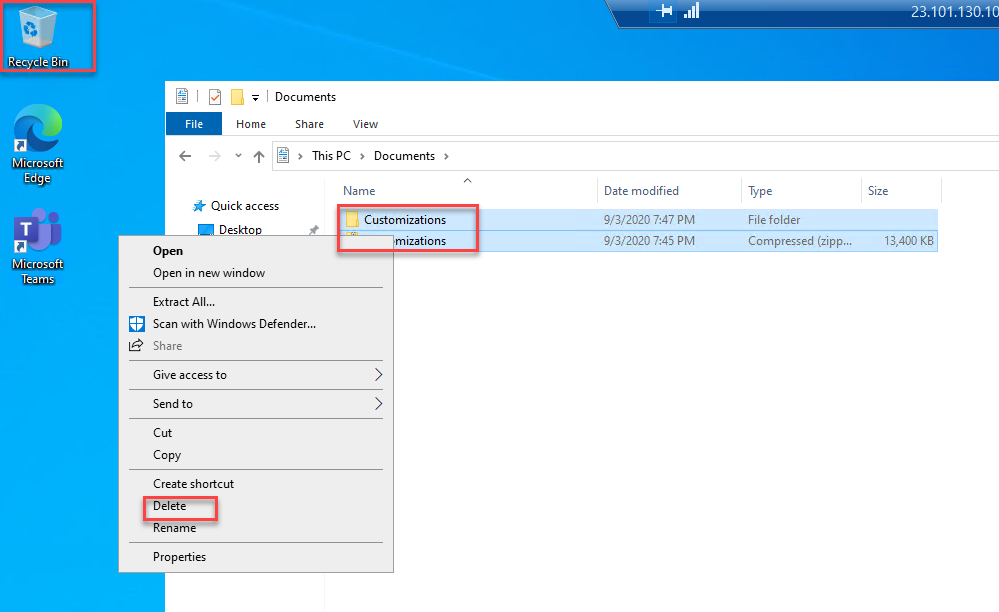
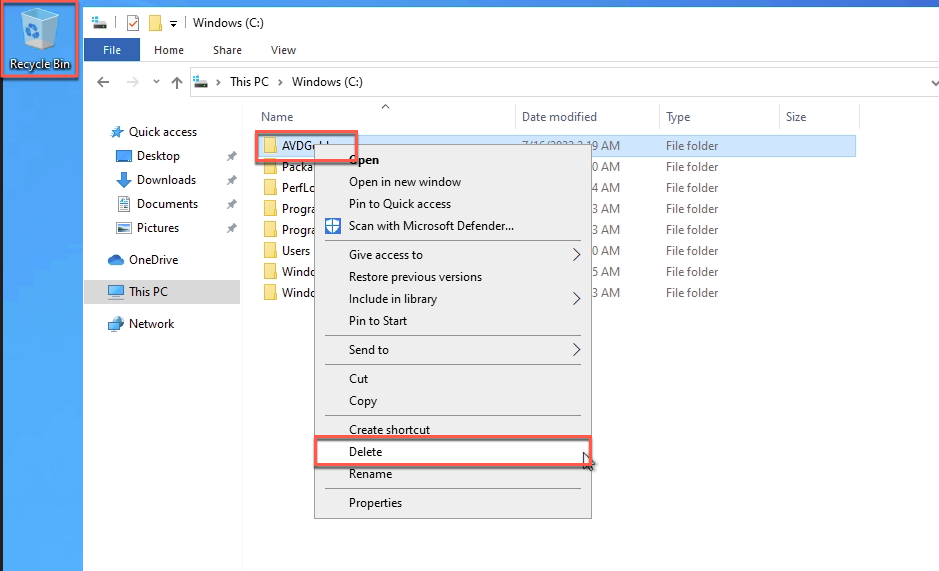
updates for test/fix

diff --git a/Hands-on lab/HOL step-by-step - Implementing Azure Virtual Desktop in the enterprise.md b/Hands-on lab/HOL step-by-step - Implementing Azure Virtual Desktop in the enterprise.md
@@ -55,12 +55,11 @@ Microsoft and the trademarks listed at <https://www.microsoft.com/en-us/legal/in
     - [Task 3: Prepare an AVD image](#task-3-prepare-an-avd-image)
     - [Task 4: Run Sysprep](#task-4-run-sysprep)
     - [Task 5: Create a managed image from the gold Image VM](#task-5-create-a-managed-image-from-the-gold-image-vm)
-    - [Task 6: Provision a Host Pool with a custom image](#task-6-provision-a-host-pool-with-a-custom-image)
   - [Exercise 5: Create a host pool for personal desktops](#exercise-5-create-a-host-pool-for-personal-desktops)
     - [Task 1: Create a new Host Pool and Workspace](#task-1-create-a-new-host-pool-and-workspace)
     - [Task 2: Create a friendly name for the workspace](#task-2-create-a-friendly-name-for-the-workspace)
     - [Task 3: Assign an Azure AD group to an application group](#task-3-assign-an-azure-ad-group-to-an-application-group)
-  - [Exercise 6: Create a host pool and assign pooled remote apps.](#exercise-6-create-a-host-pool-and-assign-pooled-remote-apps)
+  - [Exercise 6: Create a host pool from your custom image and assign pooled remote apps.](#exercise-6-create-a-host-pool-from-your-custom-image-and-assign-pooled-remote-apps)
     - [Task 1: Create a new host pool and workspace](#task-1-create-a-new-host-pool-and-workspace-1)
     - [Task 2: Create a friendly name for the workspace](#task-2-create-a-friendly-name-for-the-workspace-1)
     - [Task 3: Add Remote Apps to your Host Pool](#task-3-add-remote-apps-to-your-host-pool)
@@ -1027,33 +1026,33 @@ The UI form offers the following actions:
     .\Prepare-AVDImage.ps1 -DisplayForm
     ```
 
-![This image shows what you should be executing in PowerShell.](images/prepareimage.png "Prepare image script")
+    ![This image shows what you should be executing in PowerShell.](images/prepareimage.png "Prepare image script")
 
-This will trigger the PowerShell form to launch. Select the appropriate options based on the following input information.
+    This will trigger the PowerShell form to launch. Select the appropriate options based on the following input information.
 
-![This image shows that the script will open the AVD golden image preparation window.](images/avdgoldenimage.png "Golden image preparation")
+    ![This image shows that the script will open the AVD golden image preparation window.](images/avdgoldenimage.png "Golden image preparation")
 
-- Select **Install Office 365** to Install Office 365 ProPlus while excluding Teams, Groove, and Skype. This will enable the Email and Calendar Caching settings below.
+    - Select **Install Office 365** to Install Office 365 ProPlus while excluding Teams, Groove, and Skype. This will enable the Email and Calendar Caching settings below.
 
-    >**Note**: Update these settings as necessary. The Microsoft recommended settings are pre-selected. when you do not wish to apply these settings to the image, then set each to \'Not Configured\'.
+        >**Note**: Update these settings as necessary. The Microsoft recommended settings are pre-selected. when you do not wish to apply these settings to the image, then set each to \'Not Configured\'.
 
-- Select **Install FSLogix Agent** to install the FSLogix Agent. When you select this option, the option to specify the FSLogix User Profile Container VHD Path is enabled. You do not want to specify this option in the image so blank out this setting.
+    - Select **Install FSLogix Agent** to install the FSLogix Agent. When you select this option, the option to specify the FSLogix User Profile Container VHD Path is enabled. You do not want to specify this option in the image so blank out this setting.
 
-- Select **Install OneDrive per Machine** to install the OneDrive sync client per machine. When you select this option, it will enable the AAD Tenant ID field. Enter your tenant id here to enable silent Known Folder Move functionality in your image. For this lab, we don't want this in our image, so blank out this setting as well.
+    - Select **Install OneDrive per Machine** to install the OneDrive sync client per machine. When you select this option, it will enable the AAD Tenant ID field. Enter your tenant id here to enable silent Known Folder Move functionality in your image. For this lab, we don't want this in our image, so blank out this setting as well.
 
-- Select **Install Microsoft Teams per Machine** to install the per machine Teams install.
+    - Select **Install Microsoft Teams per Machine** to install the per machine Teams install.
 
-- Select **Install Microsoft Edge Enterprise+** to install the Microsoft Edge Enterprise browser based on Chromium.
+    - Select **Install Microsoft Edge Enterprise+** to install the Microsoft Edge Enterprise browser based on Chromium.
 
-- Select **Disable Windows Update** to disable Windows Update in the image.
+    - Select **Disable Windows Update** to disable Windows Update in the image.
 
-- Clear **Remove inbox Windows 10 Appps**.
+    - Clear **Remove inbox Windows 10 Appps**.
 
-- Select **Run System Clean Up (CleanMgr.exe)** to execute Disk Cleanup.
+    - Select **Run System Clean Up (CleanMgr.exe)** to execute Disk Cleanup.
 
     ![After selecting the options above, the preparation selections prior to selecting execute should match this image.](images/goldenimagesettings.png "Image preparation selections prior to execute")
 
-1. With the desired options selected, select **Execute**.
+8. With the desired options selected, select **Execute**.
 
     The form will close at this point and the script will begin configuring the image. **DO NOT close any of the remaining windows that appear until the script has finished execution**. Doing so will interrupt the process and will require you to start over.
 
@@ -1061,50 +1060,45 @@ This will trigger the PowerShell form to launch. Select the appropriate options 
 
     - When you selected to install Office 365, you will see a setup.exe window during execution.
 
-    -   When you selected to install OneDrive, you will see a OneDrive window during execution.
+    - When you selected to install OneDrive, you will see a OneDrive window during execution.
 
-    -   When you selected to run System Clean Up, you will see the Disk Cleanup wizard during execution. This window may stay on the \"Windows Update Cleanup\" task for a few minutes while it cleans out older files in the Windows Side by Side.
-
-    ![This image shows how to the Window for the AVD Image Preparation Script will open for you to execute.](images/WVHScript.png "The Window for the AVD Image Preparation Script")
+    - When you selected to run System Clean Up, you will see the Disk Cleanup wizard during execution. This window may stay on the \"Windows Update Cleanup\" task for a few minutes while it cleans out older files in the Windows Side by Side.
 
     >**Note**: This script takes some time to run, so be patient as it may seem like nothing is happening for a while, and then applications will begin to install. You can watch the status from within PowerShell. After the Disk Cleanup Wizard closes, you may notice the PowerShell window does not update. It is waiting for the cleanmgr.exe process to close, which can take some time. You can select the PowerShell window and continue to hit the up arrow on your keyboard until you are presented with an active prompt.
 
     ![This image shows PowerShell commands while the applications are being installed on the AVD golden image.](images/powershellstatus.png "PowerShell running script")
 
-
-2.   After the script has completed, select the Window start icon and note that Office, Microsoft Edge Chromium, and Microsoft Teams have been installed.
+9. After the script has completed, select the Window start icon and note that Office, Microsoft Edge Chromium, and Microsoft Teams have been installed.
 
    ![This image shows how to the view of the newly installed applications.](images/newapplications.png "Windows view of new applications")
 
-3.   Once the script has completed execution, complete these final tasks:
+10. Once the script has completed execution, complete these final tasks:
 
-     -   Delete the C:\\BuildArtifacts directory.
+     - Delete the C:\AVDGold directory from the computer.
 
-     -   Delete the .zip file on your desktop.
+     - Empty the Recycle Bin.
 
-     -   Empty the Recycle Bin.
+     - Copy the C:\\Windows\\Logs\\ImagePrep\\LGPO directory to your local workstation.
 
-     -   Copy the C:\\Windows\\Logs\\ImagePrep\\LGPO directory to your local workstation.
+     - Reboot the VM.
 
-     -   Reboot the VM.
-
-        ![This image shows how, after the image preparation is complete, delete the downloaded files and empty the recycle bin.](images/deletescripts.png "Deleting the scripts")
+        ![This image shows how, after the image preparation is complete, delete the AVDGold files and empty the recycle bin.](images/deletescripts.png "Deleting the scripts")
 
         ![This image shows how to navigate to the Windows start menu and reboot the Windows 10 VM.](images/win10reboot.png "Reboot Windows 10")
 
 ### Task 4: Run Sysprep
 
-1.  After the VM has rebooted, reconnect your RDP session and sign in.
+1. After the VM has rebooted, reconnect your RDP session and sign in.
 
-2.  Open an administrative command prompt.
+2. Open an administrative command prompt.
 
-3.  Navigate to: **C:\\Windows\\System32\\Sysprep**.
+3. Navigate to: **C:\\Windows\\System32\\Sysprep**.
 
     ```
     cd C:\Windows\System32\Sysprep
     ```
 
-4.  Run the following command to sysprep the VM and shutdown:
+4. Run the following command to sysprep the VM and shutdown:
 
     ```
     sysprep.exe /oobe /generalize /shutdown
@@ -1114,46 +1108,37 @@ The system will automatically shut down and disconnect your RDP session.
 
 ### Task 5: Create a managed image from the gold Image VM
 
-1.  Sign in to the [Azure Portal](https://portal.azure.com/).
+1. Sign in to the [Azure Portal](https://portal.azure.com/).
 
-2.  At the top of the page, in the **Search resources** field, type **virtual machines**. Select **Virtual machines** from the list.
+2. At the top of the page, in the **Search resources** field, type **virtual machines**. Select **Virtual machines** from the list.
 
     ![This image shows from the Azure portal search bar, to search for virtual machines and select the service.](images/searchvm.png "Search Virtual Machines")
 
-3.  On the Virtual machines blade, locate the VM you used for your gold image and **select** the name.
+3. On the Virtual machines blade, locate the VM you used for your gold image and **select** the name.
 
-4.  On the Overview blade for your VM, confirm the **Status** shows **Stopped**. Select **Stop** in the menu bar to move it to a deallocated state.
+4. On the Overview blade for your VM, confirm the **Status** shows **Stopped**. Select **Stop** in the menu bar to move it to a deallocated state.
 
     ![This image shows that VM is running and how to select stop to deallocate the VM.](images/vmrunning.png "Stop the VM")
 
     ![This image shows how to that the VM has been stopped, and that the status of stopped, deallocated in complete.](images/vmstopped.png "Stopped and deallocated VM")
 
-5.  Once complete, select **Capture** in the menu bar.
+5. Once complete, select **Capture** in the menu bar.
 
     ![This image shows that once the VM is stopped, you can select capture to capture the VM image.](images/vmcapture.png "Capture VM image")
 
-6.  On the Create image wizard, fill in the required fields and Select **Review + create**.
+6. On the Create image wizard, fill in the required fields and Select **Review + create** then select **Create**.
 
     ![This image shows what is displayed on the Create Image blade in Azure.](images/w10VMImage.png "Create Image blade in Azure")
 
-7.  Once complete, type **shared image** in the **Search resources field** at the top of the page. Select **Shared image galleries** from the list.
+7. Once complete, type **VM image definitions** in the **Search resources field** at the top of the page. Select **VM image definitions** from the list.
 
-8.  On the Shared image galleries blade, locate your image and **Select** the name.
+8. Locate your image and **Select** the name.
 
     ![When you search on images, the images icon is the one that you will need to select as shown.](images/findimage.png "Go to Shared image gallery")
 
-9.  On the Overview blade for your image, make note of the **Name** field and **Resource group** field. These attributes are needed when you provision your host pools.
+9. On the Overview blade for your image, make note of the **Name** field and **Resource group** field. These attributes are needed when you provision your host pools.
 
     ![This image shows the information that you need to note for the name and resource group.](images/newimage.png "Windows 10 image that was created")
-
-### Task 6: Provision a Host Pool with a custom image
-
-1.  To start provisioning a host pool with your custom image, follow the instructions in [Exercise 6](#exercise-6-create-a-host-pool-and-assign-pooled-remote-apps).
-
-2.  When you get to step 5 to configure **Virtual machine settings**, select **Browse all images and disks** and then select the tab option for **My Items** to select the image that was created.
-
-    ![This image shows where you will find your custom image to add to the host pool.](images/hostpoolcustom.png "Create a host pool and add custom image")
-
 
 ## Exercise 5: Create a host pool for personal desktops
 
@@ -1257,7 +1242,7 @@ In the new Azure Virtual Desktop ARM portal, we now can use Azure Active Directo
 
 With the assignment added, you can move on to the next exercise. The users in the Azure AD group can be used to validate access to the new host pool in a later exercise.
 
-## Exercise 6: Create a host pool and assign pooled remote apps.
+## Exercise 6: Create a host pool from your custom image and assign pooled remote apps.
 
 Duration:  45 minutes
 
